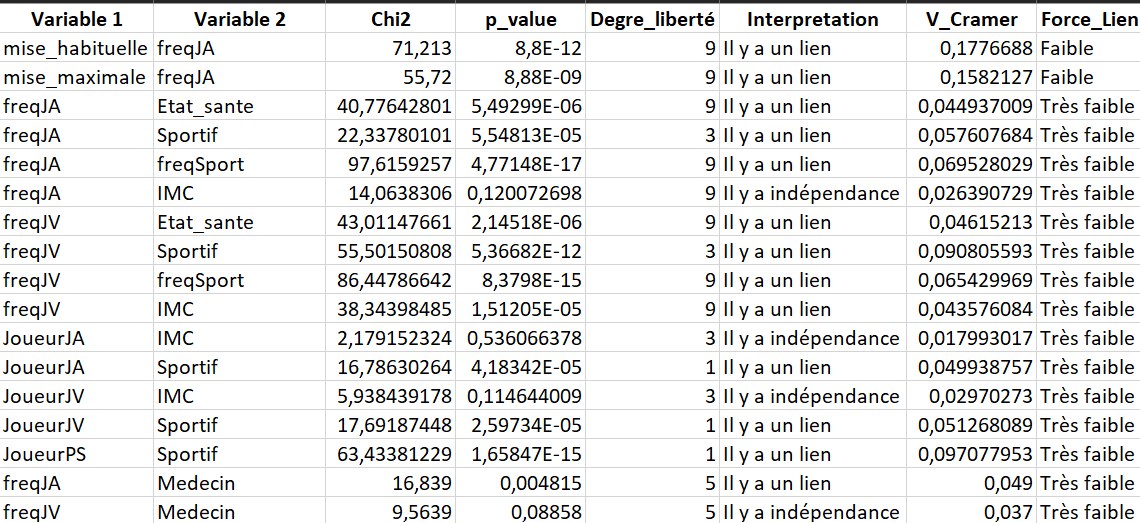
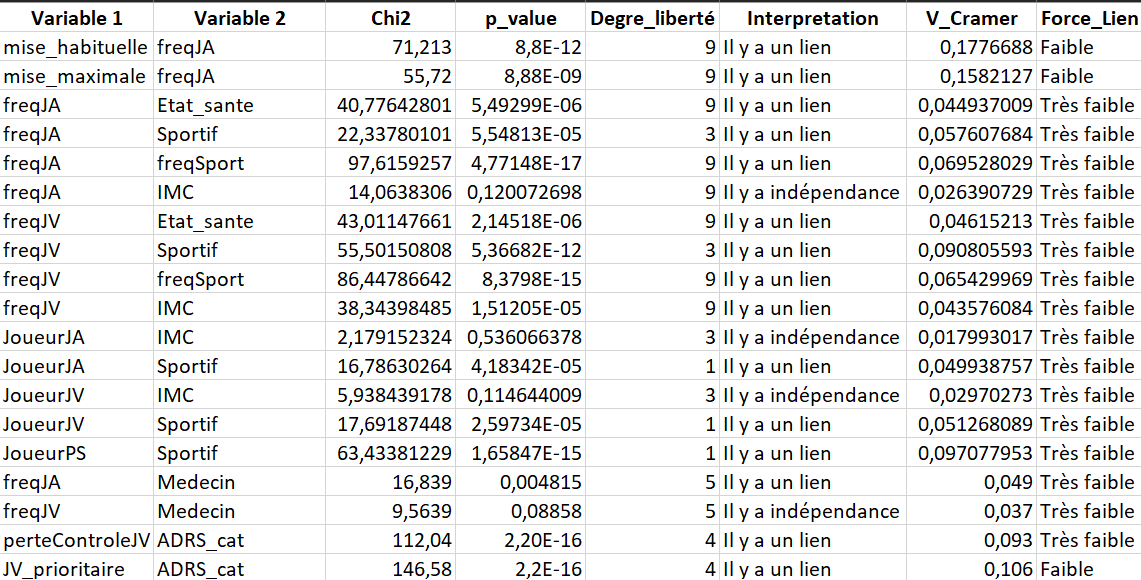
push

diff --git a/Sections/p3.tex b/Sections/p3.tex
@@ -1,6 +1,6 @@
-\section{Liens entre la santé mentale et les jeux}
+\section{Liens entre la santé mentale et la consommation de jeux}
 
-Un esprit sain dans un corps sain. Après s'être intéressé au lien entre la
+"Un esprit sain dans un corps sain". Après s'être intéressé au lien entre la
 consommation de jeux et la santé physique, intéressons-nous maintenant à la
 santé mentale.
 
@@ -16,6 +16,9 @@ distribution des risques de dépression parmi la population sondée.
     \includegraphics[width=0.8\textwidth]{Images/P3/scoreADRSdistrib.png}
     \caption{Proportions de chaque score ADRS.}
     \label{fig:adrs}
+    \textit{Note de lecture: les individus ayant obtenu un score ADRS de 1
+    représentent 17\% de la population.}\\
+    \textit{Source: Enquête ESCAPAD 2022.}
 \end{figure}
 
 
@@ -40,7 +43,8 @@ Dépressif Caractérisé.
     de consommation de jeux vidéo.}
     \label{jv_EDC}
     \textit{Note de lecture: 33,4\% des individus présentant des risques élevés
-    d'EDC jouent aux jeux vidéo toutes les semaines}
+    d'EDC jouent aux jeux vidéo toutes les semaines}\\
+    \textit{Source: Enquête ESCAPAD 2022.}
 \end{figure}
 
 Mais l'addiction n'est pas seulement caractérisée par la fréquence de
@@ -50,7 +54,11 @@ d'addiction et de mal être.
 Nous entendrons par pratique du jeu prioritaire l'occurrence à laquelle les
 individus ont "accordé une priorité plus importante aux jeux vidéo par rapport
 aux autres intérêts de la vie et aux activités quotidiennes" (ESCAPAD, 2022).
-Ces occurrences sont catégorisées de "jamais" à "souvent".
+Ces occurrences sont catégorisées de "jamais" à "souvent". Il existe bien un
+lien statistique entre cette variable et la catégorie ADRS, d'après le test du
+khi\textsuperscript{2} en \hyperref[ann:correlation]{Annexe C}. Même si le V de
+Cramer nous indique une très faible intensité de l'association, nous arrivons
+à observer certaines tendances.
 
 
 \begin{figure}[H]
@@ -59,7 +67,8 @@ Ces occurrences sont catégorisées de "jamais" à "souvent".
     \caption{Répartition des individus selon la pratique du jeu vidéo prioritaire selon le risque d'EDC}
     \label{jv_priorite}
     \textit{Note de lecture: 16,2\% des individus présentant un risque d'EDC
-    élevé accordent une priorité plus importante aux jeux vidéo qu'au reste}
+    élevé accordent une priorité plus importante aux jeux vidéo qu'au reste}\\
+    \textit{Source: Enquête ESCAPAD 2022.}
 \end{figure}
 
 
@@ -73,7 +82,8 @@ Ces occurrences sont catégorisées de "jamais" à "souvent".
     \label{jv_controle}
     \textit{Note de lecture: 65,9\% des individus ayant parfois des difficultés
     à contrôler leur consommation de jeux vidéo ne présentent aucun risque
-    d'EDC}
+    d'EDC}\\
+    \textit{Source: Enquête ESCAPAD 2022.}
 \end{figure}
 
 La part d'individus dont la pratique du jeu vidéo a "parfois" pris la priorité
@@ -114,13 +124,13 @@ consommation de jeux vidéo et le risque d'Episode Dépressif Caractérisé.
 Les jeux d'argent peuvent causer des problèmes de santé, des problèmes
 financiers, des critiques de la part de l'entourage ou même un sentiment de
 culpabilité. Ces conséquences sont liées à la santé mentale de l'individu. En
-effet, d'après la Recherche en santé mentale Canada (RSMC), les problèmes
-économiques affectent négativement la santé mentale. La culpabilité est
-elle-même un facteur de dépression, d'après la Haute Autorité de Santé. Il
-semble donc pertinent de réaliser une étude du lien entre toutes ces
-conséquences de la pratique de jeux d'argent. Ici notre but n'est pas d'établir
-des relations de causalité. Nous constatons simplement des liens, s'ils
-existent, entre différents éléments.
+effet, d'après la Recherche en santé mentale Canada (Le Vecteur, 2025
+\cite{CCSM2025}), les problèmes économiques affectent négativement la santé
+mentale. La culpabilité est elle-même un facteur de dépression, d'après la
+Haute Autorité de Santé (2017 \cite{HAS2017}). Il semble donc pertinent de
+réaliser une étude du lien entre toutes ces conséquences de la pratique de jeux
+d'argent. Ici notre but n'est pas d'établir des relations de causalité. Nous
+constatons simplement des liens, s'ils existent, entre différents éléments.
 
 
 Pour cela, nous étudions l'ACM ci-dessous. Les variables suivantes ont été
@@ -131,7 +141,7 @@ sélectionnées:
     \item Les habitudes de jeu ont été critiquées par d'autres personnes
     (critique)
     \item Le jeu a causé des difficultés financières (pbArgent)
-    \item \item Les habitudes de jeu ont causées un sentiment de culpabilité
+    \item Les habitudes de jeu ont causées un sentiment de culpabilité
     (culpabilite)
     \item La catégorie ADRS (ADRS\_cat)
 \end{itemize}
@@ -154,11 +164,13 @@ Pour le score ADRS, nous rappelons:
     \includegraphics[width=1\textwidth]{Images/P3/ACM1_dim12.png}
     \caption{Interactions entre les conséquences des jeux d'argent et la santé mentale}
     \label{fig: ACMP3}
+    \textit{Source: Enquête ESCAPAD 2022.}
 \end{figure}
 
 Les axes de cette ACM ne résument qu'une partie limitée de l'information
 (31,9\% au total). Nous aurions pu prendre en considération la dimension 3,
-mais celle-ci n'améliore pas notre analyse.
+d'après le critère du coude (\hyperref[ann:coude2]{Annexe F}), mais celle-ci
+n'améliore pas notre analyse (voir \hyperref[ann:dim13]{Annexe G}).
 
 \vskip 10pt
 

diff --git a/Sections/p1.tex b/Sections/p1.tex
@@ -52,7 +52,7 @@ tous les jours et ce chiffre s'élève à 25,8\% pour les parieurs sportifs
 sportifs et de poker s’expliquent par l'accessibilité due au téléphone qui rend
 leur pratique plus évidente. Or la part de personnes qui parient principalement
 sur internet n’est pas si importante. Seulement 52\% des parieurs sportifs
-déclarent le faire majoritairement sur internet (Source: Enquête ESCAPAD 2022).
+déclarent le faire majoritairement sur internet d'après l'enquête ESCAPAD 2022.
 Mais d'une manière générale, la consommation régulière de jeu d’argent ne
 concerne pas une grande partie de la population.
 
@@ -96,13 +96,12 @@ attentes théoriques.
 \begin{figure}[H]
     \centering
     \includegraphics[width=1\textwidth]{Images/Residus/res_JA_mise.png}
-    \caption{Tableau des résidus standardisés entre les variables de fréquence
-    de jeux vidéo et la mise habituelle}
+    \caption{Tableau des résidus standardisés}
     \label{Résidus mises}
     \textit{Note de lecture: La catégorie des joueurs quotidiens misant plus de
-    50 € est sur-représentée, alors que celle des individus jouant moins
-    d'une fois par semaine est sous-représentée.}\\
-    \textit{La règle choisie pour évaluer les valeurs des résidus est énoncée
+    50 € est surreprésentée, alors que celle des individus jouant moins d'une
+    fois par semaine est sous-représentée.}\\
+    \textit{La règle choisie pour analyser les valeurs des résidus est énoncée
     en \hyperref[ann:residus_IMC]{Annexe D}}\\
     \textit{Source: Enquête ESCAPAD 2022.}
 
@@ -121,8 +120,8 @@ attentes théoriques.
     \end{tabular}
     \caption{Moyenne des mises habituelles selon la fréquence de jeu}
     \label{mises paris}
-    \vskip 10pt 
-    \textit{Note de lecture: La moyenne des mises habituelles des joueurs quotidiens est de 10,85€} \\
+    \vskip 10pt \textit{Note de lecture: La moyenne des mises habituelles des
+    joueurs quotidiens est de 10,85€} \\
     \textit{Source: Enquête ESCAPAD 2022.}
 \end{table}
 
@@ -175,9 +174,9 @@ deux ratios de joueurs par rapport au joueuses sont presque similaires. Celui
 de l'enquête Escapade est de 1,2 alors que le premier est de 1,3. \\
 La pratique du jeu vidéo est encore plus genrée que celle des jeux d'argent.
 Les jeux vidéo ont d'abord été popularisés dans des milieux masculins, mais on
-peut observer une féminisation de ce secteur (Samuel Coavoux,
-2019 \cite{gamer}). En 2011, 29,5\% des garçons de 17 ans jouent tous les jours
-aux jeux vidéo, alors que c'est seulement 3\% pour les filles du même âge
+peut observer une féminisation de ce secteur (Samuel Coavoux, 2019
+\cite{gamer}). En 2011, 29,5\% des garçons de 17 ans jouent tous les jours aux
+jeux vidéo, alors que c'est seulement 3\% pour les filles du même âge
 (Berthomier et Octobre, 2011 \cite{enfance_loisirs}). Comparer ces résultats
 avec ceux de l'enquête ESCAPAD 2022 semble indiquer que la fréquence de jeu
 vidéo est moins genrée qu'il y a quelques années. En 2022, 26,1\% des hommes

diff --git a/Sections/annexes.tex b/Sections/annexes.tex
@@ -90,7 +90,7 @@ Pour réaliser ces calculs, nous avons réalisé les calculs sans les valeurs
 manquantes, et avec les modalités réduites des variables comme expliqué dans
 l'annexe B.
 
-\vspace{4em}
+\newpage
 
 \begin{center}
     \textbf{\Large Annexe D}\label{ann:residus_IMC}\\[1em]
@@ -99,7 +99,7 @@ l'annexe B.
     \includegraphics[width=1\textwidth]{Images/Residus/res_JV_IMC.png}\\[2.0cm]
     \textit{Note de lecture: la population de corpulence normale jouant moins 
     d'une fois par semaine est surreprésentée, alors que celle de corpulence
-    normale jouant au quotidien est sous représentée.}
+    normale jouant au quotidien est sous représentée.}\\
     \textit{Source: Enquête ESCAPAD 2022.}
 \end{center}
 Pour savoir si une catégorie est surreprésentée ou sous-représentée, d'un
@@ -109,7 +109,7 @@ point de vue statistique, on applique la règle suivante:
     \item Si le résidu est supérieur à 2, alors la catégorie est surreprésentée
 \end{itemize}
 
-\vspace{4em}
+\newpage
 
 \begin{center}
     \textbf{\Large Annexe E}\label{ann:coude1}\\[1em]
@@ -117,7 +117,7 @@ point de vue statistique, on applique la règle suivante:
     partie 1"}\\[0.5em]
     \includegraphics[width=1\textwidth]{Images/ACM_coudeP1.png}\\[2.0cm]
     \textit{Note de lecture: L'inflexion a lieu pour la dimension 2, nous
-    étudions alors les deux premières dimensions.}
+    étudions alors les deux premières dimensions.}\\
     \textit{Source: Enquête ESCAPAD 2022.}
 \end{center}
 Pour déterminer le nombre optimal de dimensions à retenir dans l’analyse, nous
@@ -126,7 +126,7 @@ représentant la variance expliquée par chaque dimension et à repérer un poin
 d’inflexion au-delà duquel l’ajout de dimensions supplémentaires
 n’apporte qu’un gain marginal d'information.
 
-\vspace{4em}
+\newpage
 
 \begin{center}
     \textbf{\Large Annexe F}\label{ann:coude2}\\[1em]
@@ -134,23 +134,24 @@ n’apporte qu’un gain marginal d'information.
     partie 3"}\\[0.5em]
     \includegraphics[width=1\textwidth]{Images/P3/ACM1_coude.png}\\[2.0cm]
     \textit{Note de lecture: L'inflexion a lieu pour la dimension 3, nous
-    étudions alors les trois premières dimensions.}
+    étudions alors les trois premières dimensions.}\\
     \textit{Source: Enquête ESCAPAD 2022.}
 \end{center}
 
 
-\vspace{4em}
+\newpage
 
 \begin{center}
     \textbf{\Large Annexe G}\label{ann:dim13}\\[1em]
     \textbf{"Représentation des dimensions 1 et 3 de l'ACM de la partie
     3"}\\[0.5em]
     \includegraphics[width=1\textwidth]{Images/P3/ACM1_dim13.png}\\[2.0cm]
-    \textit{Note de lecture: Cette ACM n'apporte pas d'information à notre étude.}
+    \textit{Note de lecture: La dimension 3 n'apporte pas d'informations supplémentaires
+    à notre analyse des dimensions 1 et 2.}\\
     \textit{Source: Enquête ESCAPAD 2022.}
 \end{center}
 
-\vspace{4em}
+\newpage
 
 \begin{center}
     \textbf{\Large Livrable 1 }\label{ann:livrable}\\[1em]

diff --git a/Sections/conclusion.tex b/Sections/conclusion.tex
@@ -11,12 +11,12 @@ C’est notamment le cas de la pratique d’activités physiques. Malgré certai
 stéréotypes, on observe que les jeunes qui jouent très souvent aux jeux vidéo
 ont tendance à faire plus régulièrement du sport que ceux qui y jouent moins.
 On observe un phénomène encore plus marqué chez les parieurs sportifs. Mais
-toutes les relations entre jeux et santé ne sont pas si enthousiastes pour les
+toutes les relations entre jeux et santé ne sont pas si favorables pour les
 joueurs. C’est par exemple le cas de l’IMC par rapport à la pratique du jeu.
 Les joueurs quotidiens de jeux vidéo  sont surreprésentés parmi les joueurs
 obèses ou en insuffisance pondérale. On peut aussi observer qu'un individu ne
-jouant pas aux jeux vidéo présente moins de risques d'épisode dépressif
-caractérisé.
+contrôlant pas sa consommation de jeux vidéo présente plus de risques d'épisode
+dépressif caractérisé.
 
 
 La consommation de jeu n'est pas à considérer comme déterminant de la santé, et
@@ -28,14 +28,14 @@ directement à la santé d’un individu ou bien au contraire favoriser le
 bien-être.
 
 
-Les résultats de ce rapport sont à remettre en perspective du fait de la nature
-de la base de données. Elle ne concerne qu'un petit échantillon d'individus du
-même âge, alors que la consommation de jeux est une pratique très différente
-d'une génération à l'autre. On peut aussi supposer que les résultats auraient
-été très différents et que des questions plus précises sur la santé auraient
-ouvert de nouvelles portes. Il aurait été intéressant de connaître les
-symptômes les plus récurrents chez chacun (maux de ventre, insomnie, etc.) et
-d'ainsi pouvoir les étudier.
+Les résultats de ce rapport sont à remettre en perspective, du fait de la
+nature de la base de données. Elle ne concerne qu'un petit échantillon
+d'individus du même âge, alors que la consommation de jeux est une pratique
+très différente d'une génération à l'autre. On peut aussi supposer que les
+résultats auraient été très différents et que des questions plus précises sur
+la santé auraient ouvert de nouvelles portes. Il aurait été intéressant de
+connaître les symptômes les plus récurrents chez chacun (maux de ventre,
+insomnie) et d'ainsi pouvoir les étudier.
 
 
 Les jeux vidéo et les jeux d'argent sont des pratiques relativement modernes.

diff --git a/Sections/p2.tex b/Sections/p2.tex
@@ -130,10 +130,10 @@ pratique de jeux vidéos.
 En revanche, la différence est plus visible lorsqu'il s'agit de la fréquence de
 jeu. D'après le test du khi\textsuperscript{2}, il existe un lien entre la
 fréquence de la pratique de jeux vidéo et l'IMC ($p-value = 1,51 \times
-10^{-5}$\hyperref[ann:correlation]{Annexe C}). Le V de Cramer indique une
+10^{-5}$ \hyperref[ann:correlation]{Annexe C}). Le V de Cramer indique une
 intensité d'association très faible. Une étude plus précise, avec le calcul des
-résidus a été faite (\hyperref[ann:residus_IMC]{Annexe D}), nous indiquant un
-écart important entre certains effectifs théoriques et observés.
+résidus, a été réalisée (\hyperref[ann:residus_IMC]{Annexe D}), nous indiquant
+un écart important entre certains effectifs théoriques et observés.
 
 \begin{figure}[H]
     \centering
@@ -165,7 +165,7 @@ important, car au-delà d'un simple constat sur l'état de santé d'un individu 
 un instant donné, il donne des habitudes de vie que l'on peut mettre en
 relation avec des habitudes de jeu. D'après le test du khi\textsuperscript{2},
 il y a bien une dépendance entre la pratique sportive et la consommation de
-jeux ($p-value = 4,18 \times 10^{-5}$\hyperref[ann:correlation]{Annexe C}).
+jeux ($p-value = 4,18 \times 10^{-5}$ \hyperref[ann:correlation]{Annexe C}).
 
 \begin{figure}[H]
     \centering
@@ -179,7 +179,7 @@ Un individu jouant aux jeux d'argent est un peu plus susceptible de faire du
 sport (71,3\%) qu'un individu de jouant pas (63,9\%) (Figure
 \ref{fig:freq_joueur_JA_sport}). On remarque ainsi que ces deux activités sont
 faiblement liées, ce que confirme la valeur du V de Cramer ($V = 4,99 \times
-10^{-2}$\hyperref[ann:correlation]{Annexe C}).
+10^{-2}$ \hyperref[ann:correlation]{Annexe C}).
 
 \vskip 10pt
 

diff --git a/Sections/intro.tex b/Sections/intro.tex
@@ -23,7 +23,7 @@ jeux vidéo français a connu les deux meilleures années de son histoire (SELL,
 2025 \cite{SELL2025}). Le marché des jeux d'argent se développe aussi. Le
 marché français n'a pas cessé de croître depuis 2020, en plus de se
 transformer. Les jeux en ligne représentent 18,5\% du marché des jeux
-d'argent(Autorité Nationale des Jeux, 2025 \cite{ANJ2025})
+d'argent (Autorité Nationale des Jeux, 2025 \cite{ANJ2025})
 
 Les pouvoirs publics ont vu en ces consommations de potentiels effets néfastes
 sur la santé publique. Sur le plan international, l’Organisation Mondiale de la
